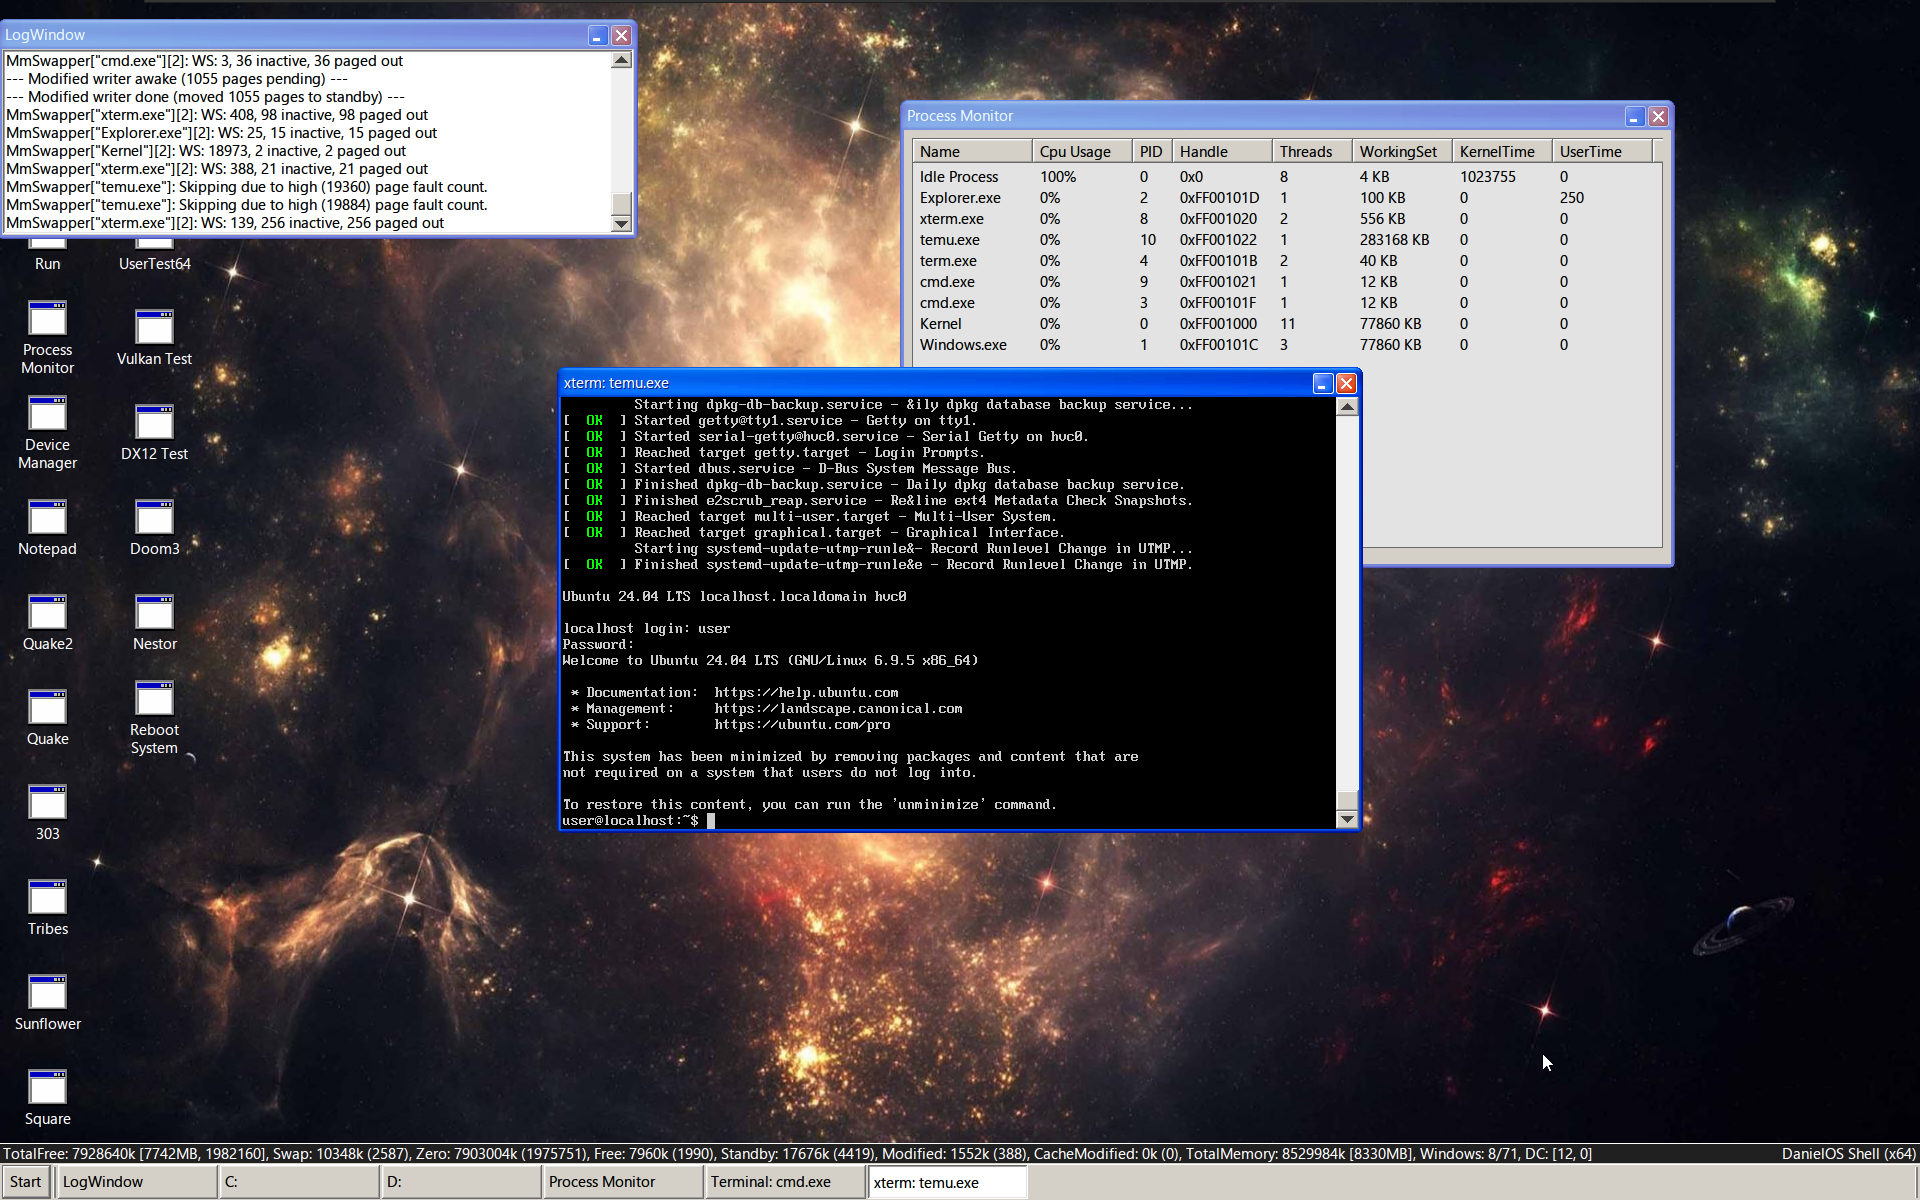
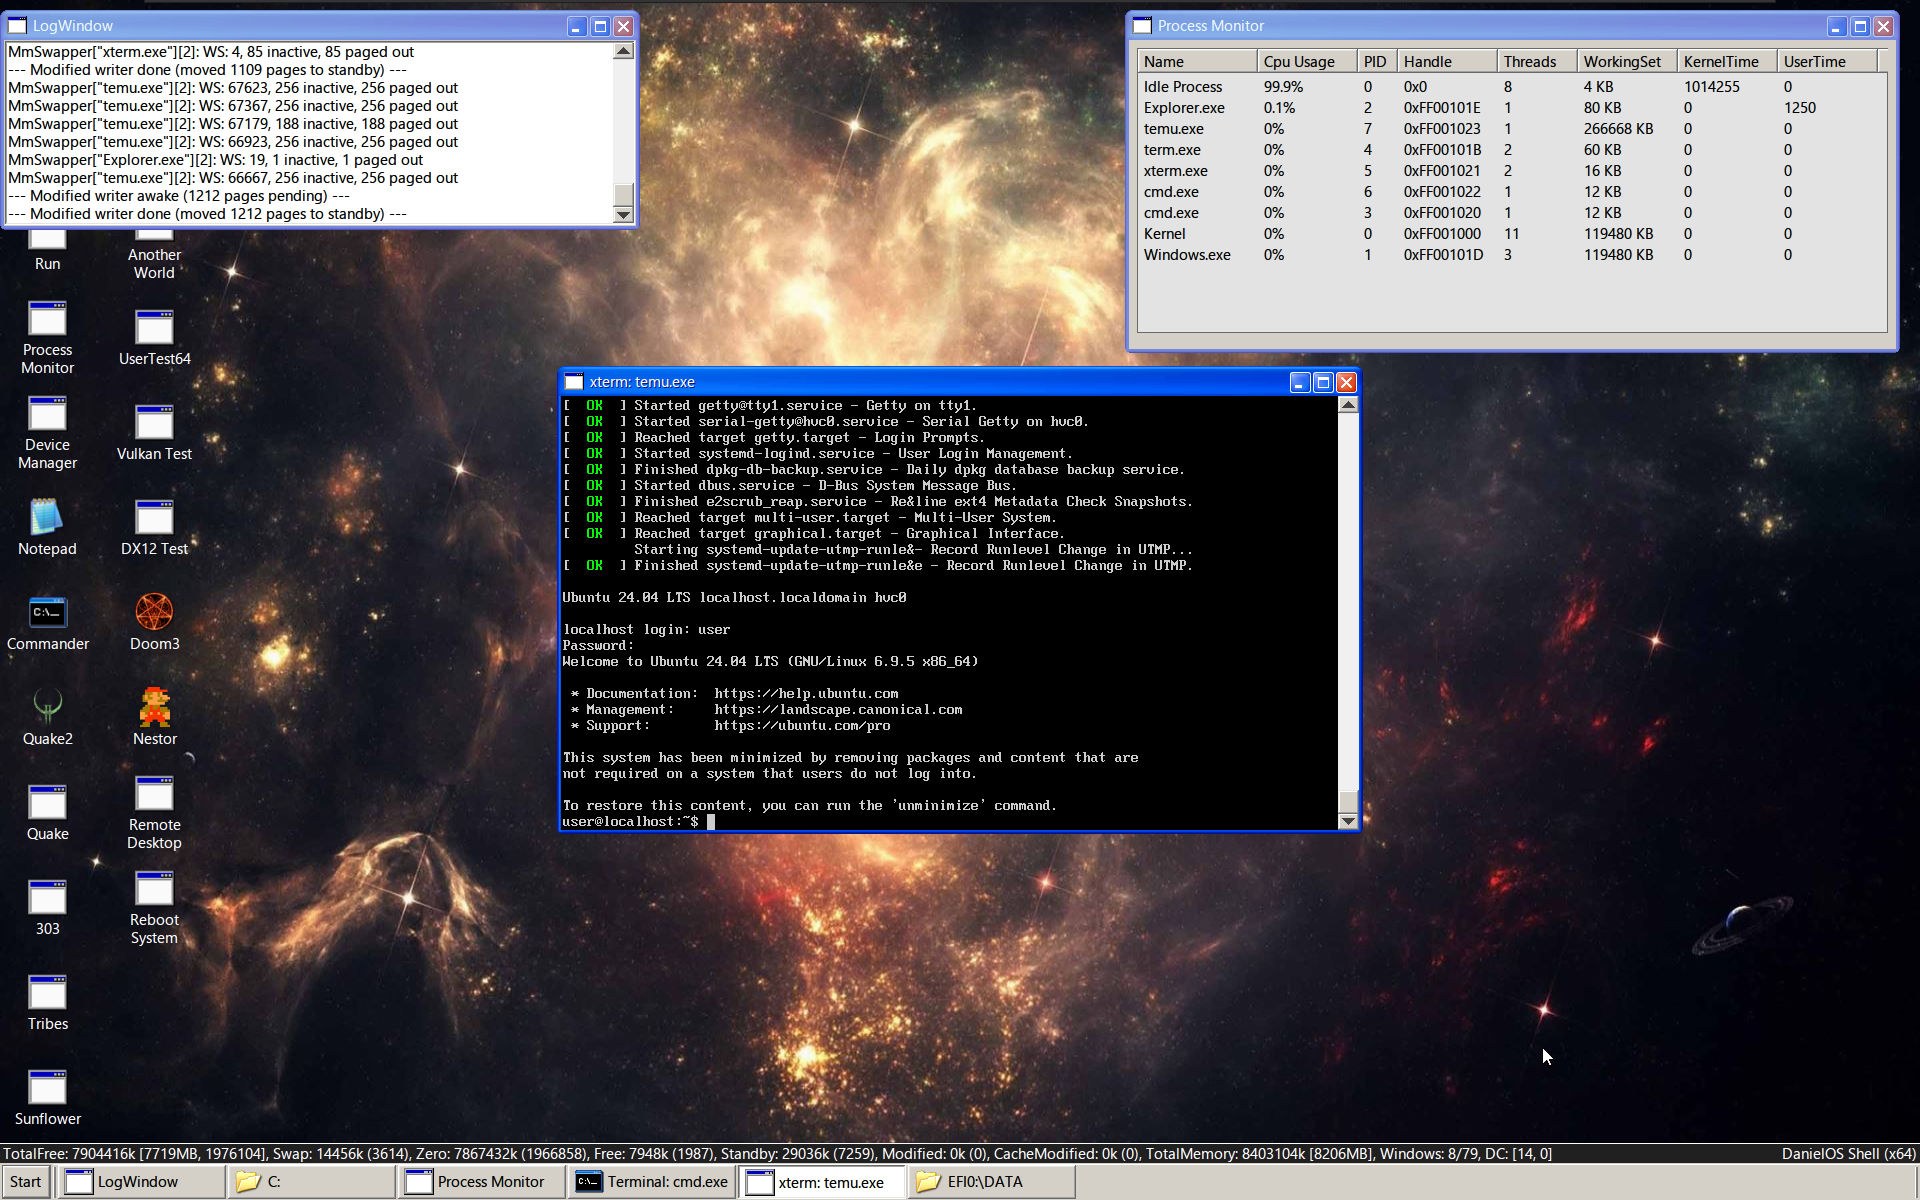
Update text and screenshots

diff --git a/index.md b/index.md
@@ -6,7 +6,7 @@ layout: home
 <p align="center" width="100%">
 	Research OS written from scratch<br/>
 	Retro look, new code<br/><br/>
-	<img src="assets/scr_3.png" width="100%" />
+	<img src="assets/scr_4.png" width="100%" />
 <hr>
 	<img src="assets/scr_2.png" width="100%" />
 <hr>
@@ -39,7 +39,7 @@ layout: home
 	- Mapped files and shared memory
 	- Automatic background paging (swapper)
 + Process and memory protection (Kernel, User)
-	- Exception Handling (try-catch)
+	- Exception Handling (SEH, custom, try-catch)
 + Virtual file systems with symbolic links
 	- Infinite file system cache
 	- Pipes and interprocess communication (IPC)
@@ -63,6 +63,7 @@ layout: home
 
 ## Graphical User Interface
 + Fast Window Manager
++ DPI Scaling
 + Shell and File Explorer
 + Native UI controls and menus
 + Optimized AVX/SSE drawing
@@ -163,9 +164,10 @@ layout: home
 <h2 id="hardware">Supported Hardware</h2>
 + CPU: x64 / x86
 + PCI, MSI, MSI-X
++ Boot: UEFI, BIOS
 + Disk: AHCI, IDE
 + USB: XHCI (3.0), EHCI (2.0)
-+ Network: Intel E1000, Broadcom (BCM5722D)
++ Network: Intel E1000, Realtek 8169, Broadcom (BCM5722D)
 + Sound: Intel HDA, Ensoniq ES3171
 + Hypervisor: Intel VMX
 
@@ -205,6 +207,10 @@ layout: home
 	<img src="assets/scr_1.png" width="100%" />
 	<br/><br/>
 	<img src="assets/scr_2.png" width="100%" />
+	<br/><br/>
+	<img src="assets/dos_commander.png" width="100%" />
+	<br/><br/>
+	<img src="assets/scr_4.png" width="100%" />
 	<br/><br/>
 	<img src="assets/scr_3.png" width="100%" />
 </p>
